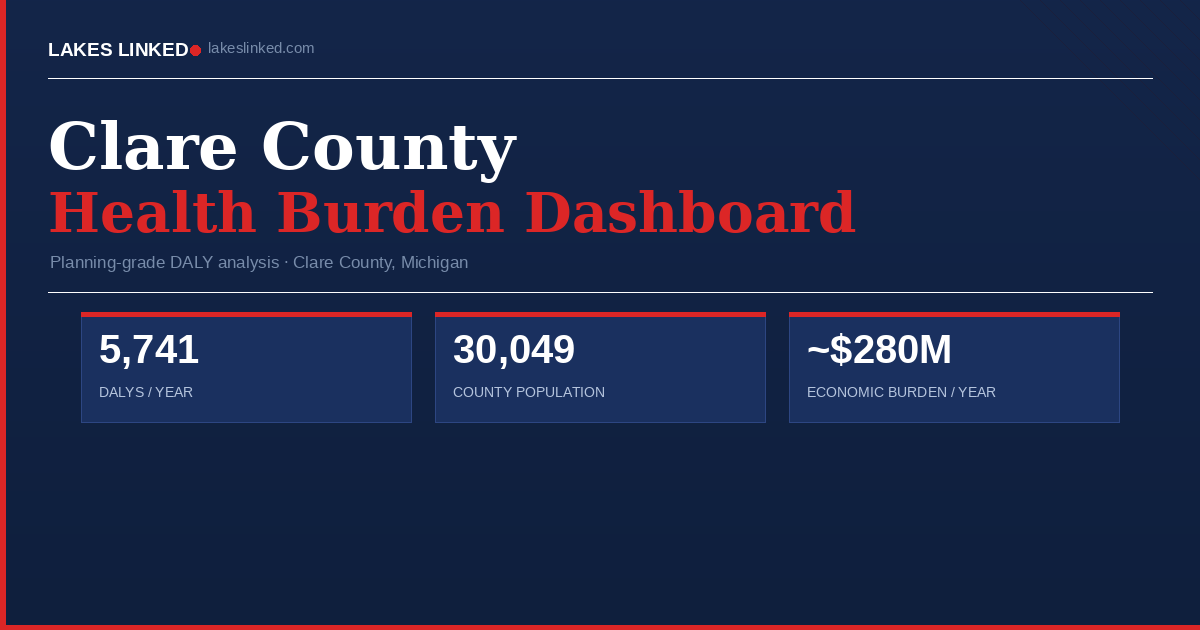
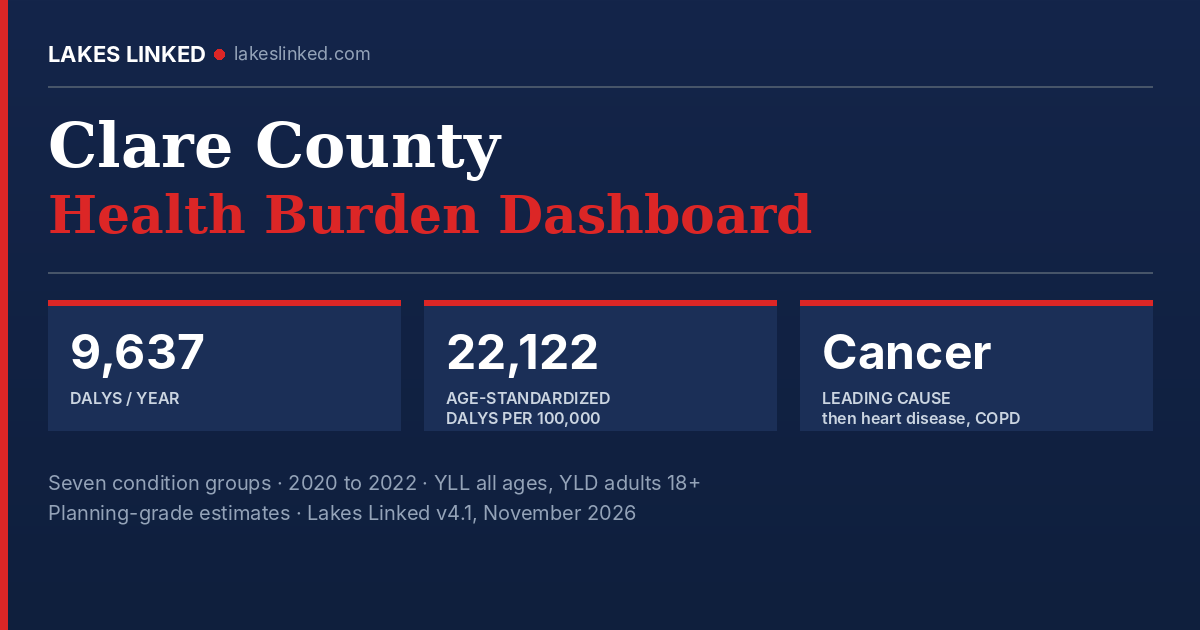
Share text, social previews and OG images updated to v4.1

diff --git a/wayne.html b/wayne.html
@@ -7,7 +7,7 @@
 <title>Wayne County (Detroit) Health Burden Dashboard | Lakes Linked</title>
 <meta content="Wayne County, Michigan (Detroit) health burden analysis: 421,263 DALYs/year. Cardiovascular disease #1, cancer #2, substance use #3. Age-standardized method. Planning-grade DALY estimates. Dr. Sergey Soshnikov, MD PhD." name="description"/>
 <meta content="Wayne County (Detroit) Health Burden Dashboard | Lakes Linked" property="og:title"/>
-<meta content="421,263 DALYs/yr · CVD #1, substance use #3. Large urban county. Age-standardized YLL analysis (crude DALY rate)." property="og:description"/>
+<meta content="421,263 DALYs/yr · CVD #1, cancer #2, substance use #3. Age-standardized 20,991 per 100,000, similar to rural Clare. Seven condition groups, Lakes Linked v4.1." property="og:description"/>
 <meta content="https://lakeslinked.com/wayne.html" property="og:url"/>
 <meta content="website" property="og:type"/>
 <script src="https://cdnjs.cloudflare.com/ajax/libs/Chart.js/4.4.1/chart.umd.min.js"></script>
@@ -125,7 +125,7 @@ a.ccb-county:hover{border-bottom-color:var(--purple);}
 .rec-b p{font-size:12px;color:var(--muted);line-height:1.5;}
 .rec-ev{font-size:11px;font-weight:700;color:var(--teal);background:#f0fdfa;border-radius:6px;padding:3px 8px;white-space:nowrap;align-self:start;}
 </style>
-<link href="ll-features.css" rel="stylesheet"/><meta content="index, follow" name="robots"/><meta content="Sergey Soshnikov, MD PhD — Lakes Linked" name="author"/><link href="https://lakeslinked.com/wayne.html" rel="canonical"/><meta content="https://lakeslinked.com/og-ai-public-health.png" property="og:image"/><meta content="1200" property="og:image:width"/><meta content="630" property="og:image:height"/><meta content="summary_large_image" name="twitter:card"/><meta content="https://lakeslinked.com/og-ai-public-health.png" name="twitter:image"/></head>
+<link href="ll-features.css" rel="stylesheet"/><meta content="index, follow" name="robots"/><meta content="Sergey Soshnikov, MD PhD — Lakes Linked" name="author"/><link href="https://lakeslinked.com/wayne.html" rel="canonical"/><meta content="https://lakeslinked.com/og-wayne.png" property="og:image"/><meta content="1200" property="og:image:width"/><meta content="630" property="og:image:height"/><meta content="summary_large_image" name="twitter:card"/><meta content="https://lakeslinked.com/og-wayne.png" name="twitter:image"/></head>
 <body>
 <!-- Navigation -->
 <nav class="sitenav">
@@ -180,9 +180,9 @@ a.ccb-county:hover{border-bottom-color:var(--purple);}
 </div>
 <div class="hdiv"></div>
 <div class="hstat">
-<div class="num">14,177</div>
-<div class="lbl">Age-std YLL / 100k</div>
-<div class="cmp bad">Highest analyzed county — 1.7× Ann Arbor</div>
+<div class="num">20,991</div>
+<div class="lbl">Age-std DALYs / 100k</div>
+<div class="cmp bad">Similar to rural Clare (22,122) · 1.4× Ann Arbor</div>
 </div>
 <div class="hdiv"></div>
 <div class="hstat">
@@ -214,9 +214,9 @@ a.ccb-county:hover{border-bottom-color:var(--purple);}
 <!-- KPI STRIP -->
 <div class="kpi-strip" id="sec-kpi">
 <div class="kpi" style="--accent:var(--purple)">
-<div class="kpi-num">14,177<span style="font-size:13px;font-weight:600;color:var(--muted)">/100k</span></div>
-<div class="kpi-label">Age-standardized YLL rate — the cross-county comparison metric</div>
-<div class="kpi-delta up">Highest burden — 1.7× Ann Arbor's 8,251/100k</div>
+<div class="kpi-num">20,991<span style="font-size:13px;font-weight:600;color:var(--muted)">/100k</span></div>
+<div class="kpi-label">Age-standardized DALY rate (95% range 20,474–21,608), the cross-county comparison metric</div>
+<div class="kpi-delta up">Statistically similar to rural Clare (22,122); 1.4× Ann Arbor's 14,708</div>
 </div>
 <div class="kpi" style="--accent:var(--red)">
 <div class="kpi-num">5,531</div>
@@ -245,7 +245,7 @@ a.ccb-county:hover{border-bottom-color:var(--purple);}
 </div>
 </div>
 
-<div class="ll-share-block" data-county="Wayne County (Detroit)" data-metric="disease burden" data-unit="DALYs/yr" data-url="https://lakeslinked.com/wayne.html" data-value="421,263" style="margin:20px 0;">
+<div class="ll-share-block" data-share-text="Wayne County (Detroit), Michigan: 421,263 DALYs a year. Age-standardized, 20,991 per 100,000, statistically similar to rural Clare County. Leading causes: heart disease, cancer, substance use. Seven condition groups (cancer, heart disease, stroke, COPD, diabetes, mental health, substance use), 2020 to 2022; YLL all ages, YLD adults 18+. Planning estimates from CDC WONDER, CDC PLACES 2024 and IHME GBD weights. Lakes Linked v4.1." data-county="Wayne County (Detroit)" data-metric="disease burden" data-unit="DALYs/yr" data-url="https://lakeslinked.com/wayne.html" data-value="421,263" style="margin:20px 0;">
 <span class="ll-share-label">Share this dashboard:</span>
 <button class="ll-share-btn ll-share-btn--linkedin" type="button"><span class="ll-share-icon">in</span> LinkedIn</button>
 <button class="ll-share-btn ll-share-btn--x" type="button"><span class="ll-share-icon">𝕏</span> Post</button>
@@ -266,7 +266,7 @@ a.ccb-county:hover{border-bottom-color:var(--purple);}
 <div class="findings" style="margin:0;">
 <div class="finding" style="--accent:var(--red)"><h4>Cardiovascular-led</h4><p>Heart disease is the dominant burden (117,773 DALYs, 5,531 deaths/yr) — a cardiovascular crisis on a scale distinct from cancer-led Ann Arbor.</p></div>
 <div class="finding" style="--accent:var(--amber)"><h4>Enormous substance-use burden</h4><p>1,107 drug + alcohol deaths/yr (70,984 DALYs) — the #3 cause, reflecting Detroit's overdose crisis. Directly observed, not suppressed.</p></div>
-<div class="finding"><h4>Deaths strike younger</h4><p>The age-standardized YLL rate (14,177/100k) is 1.7× Ann Arbor's, driven by deaths occurring further below the survival benchmark.</p></div>
+<div class="finding"><h4>Deaths strike younger</h4><p>The age-standardized YLL rate (14,177/100k) is 1.7× Ann Arbor's 8,251, driven by deaths occurring further below the survival benchmark.</p></div>
 </div>
 </div>
 </div>
@@ -340,7 +340,7 @@ a.ccb-county:hover{border-bottom-color:var(--purple);}
 <h3>Method &amp; comparability notes (read before comparing counties)</h3>
 <ul>
 <li><strong>One method for all six counties (v4.1, November 2026).</strong> All six counties now use age-specific YLL on the GBD 2019 reference life table, observed CDC WONDER 2020–22 deaths by age and CDC WONDER person-year denominators, so age-standardized rates can be compared directly. See <a href="rural_vs_urban.html">Six counties on one basis</a>. Rankings are point estimates; uncertainty intervals for all counties are in preparation.</li>
-<li><strong>"Age-standardized" applies to YLL.</strong> Only the mortality (YLL) rate is genuinely age-standardized (14,177/100k). YLD has no age-specific prevalence in CDC PLACES, so it is reported as a crude rate (7,555/100k). We show them separately rather than blend them under one label.</li>
+<li><strong>Age standardization covers YLL and YLD (v4.1).</strong> YLL is standardized directly by age group (14,177/100k). YLD is standardized with CDC PLACES age-adjusted prevalence for adults (6,814/100k); together they give 20,991 age-standardized DALYs per 100,000. YLD covers adults 18+ only.</li>
 <li><strong>Substance-use prevalence for YLD is indicative, not measured.</strong> CDC PLACES has no SUD measure, so the SUD disability component uses a Michigan-derived rate applied uniformly; it likely understates a high-burden county like Wayne. SUD mortality (the YLL part) is directly observed.</li>
 <li><strong>Substance-use and suicide mortality overlap slightly.</strong> Drug-poisoning deaths with suicidal intent (X60–X64) appear in both categories, so the sum of those two causes' YLL is a modest upper bound.</li>
 <li><strong>Detroit ⊆ Wayne County.</strong> Mortality is only available at county resolution; this page describes Wayne County, which contains Detroit (about a third of the county's population).</li>

diff --git a/washtenaw.html b/washtenaw.html
@@ -7,7 +7,7 @@
 <title>Washtenaw County (Ann Arbor) Health Burden Dashboard | Lakes Linked</title>
 <meta content="Washtenaw County, Michigan (Ann Arbor) health burden analysis: 58,628 DALYs/year. Cancer #1, substance use #2, CVD #3. Age-standardized method. Planning-grade DALY estimates. Dr. Sergey Soshnikov, MD PhD." name="description"/>
 <meta content="Washtenaw County (Ann Arbor) Health Burden Dashboard | Lakes Linked" property="og:title"/>
-<meta content="58,628 DALYs/yr · Cancer #1, substance use #3. Urban college county. Age-standardized YLL analysis (crude DALY rate)." property="og:description"/>
+<meta content="58,628 DALYs/yr · Cancer #1, substance use #2, CVD #3. Age-standardized 14,708 per 100,000, lowest of six counties. Seven condition groups, Lakes Linked v4.1." property="og:description"/>
 <meta content="https://lakeslinked.com/washtenaw.html" property="og:url"/>
 <meta content="website" property="og:type"/>
 <script src="https://cdnjs.cloudflare.com/ajax/libs/Chart.js/4.4.1/chart.umd.min.js"></script>
@@ -125,7 +125,7 @@ a.ccb-county:hover{border-bottom-color:var(--purple);}
 .rec-b p{font-size:12px;color:var(--muted);line-height:1.5;}
 .rec-ev{font-size:11px;font-weight:700;color:var(--teal);background:#f0fdfa;border-radius:6px;padding:3px 8px;white-space:nowrap;align-self:start;}
 </style>
-<link href="ll-features.css" rel="stylesheet"/><meta content="index, follow" name="robots"/><meta content="Sergey Soshnikov, MD PhD — Lakes Linked" name="author"/><link href="https://lakeslinked.com/washtenaw.html" rel="canonical"/><meta content="https://lakeslinked.com/og-ai-public-health.png" property="og:image"/><meta content="1200" property="og:image:width"/><meta content="630" property="og:image:height"/><meta content="summary_large_image" name="twitter:card"/><meta content="https://lakeslinked.com/og-ai-public-health.png" name="twitter:image"/></head>
+<link href="ll-features.css" rel="stylesheet"/><meta content="index, follow" name="robots"/><meta content="Sergey Soshnikov, MD PhD — Lakes Linked" name="author"/><link href="https://lakeslinked.com/washtenaw.html" rel="canonical"/><meta content="https://lakeslinked.com/og-washtenaw.png" property="og:image"/><meta content="1200" property="og:image:width"/><meta content="630" property="og:image:height"/><meta content="summary_large_image" name="twitter:card"/><meta content="https://lakeslinked.com/og-washtenaw.png" name="twitter:image"/></head>
 <body>
 <!-- Navigation -->
 <nav class="sitenav">
@@ -180,9 +180,9 @@ a.ccb-county:hover{border-bottom-color:var(--purple);}
 </div>
 <div class="hdiv"></div>
 <div class="hstat">
-<div class="num">8,251</div>
-<div class="lbl">Age-std YLL / 100k</div>
-<div class="cmp good">Lowest of the analyzed urban counties</div>
+<div class="num">14,708</div>
+<div class="lbl">Age-std DALYs / 100k</div>
+<div class="cmp good">Lowest of the six analyzed counties</div>
 </div>
 <div class="hdiv"></div>
 <div class="hstat">
@@ -214,9 +214,9 @@ a.ccb-county:hover{border-bottom-color:var(--purple);}
 <!-- KPI STRIP -->
 <div class="kpi-strip" id="sec-kpi">
 <div class="kpi" style="--accent:var(--purple)">
-<div class="kpi-num">8,251<span style="font-size:13px;font-weight:600;color:var(--muted)">/100k</span></div>
-<div class="kpi-label">Age-standardized YLL rate — the cross-county comparison metric</div>
-<div class="kpi-delta good">Ann Arbor is the healthiest analyzed urban county (Wayne 14,177)</div>
+<div class="kpi-num">14,708<span style="font-size:13px;font-weight:600;color:var(--muted)">/100k</span></div>
+<div class="kpi-label">Age-standardized DALY rate (95% range 14,172–15,676), the cross-county comparison metric</div>
+<div class="kpi-delta good">Lowest of six analyzed counties (Wayne 20,991; Clare 22,122)</div>
 </div>
 <div class="kpi" style="--accent:var(--red)">
 <div class="kpi-num">548</div>
@@ -245,7 +245,7 @@ a.ccb-county:hover{border-bottom-color:var(--purple);}
 </div>
 </div>
 
-<div class="ll-share-block" data-county="Washtenaw County (Ann Arbor)" data-metric="disease burden" data-unit="DALYs/yr" data-url="https://lakeslinked.com/washtenaw.html" data-value="58,628" style="margin:20px 0;">
+<div class="ll-share-block" data-share-text="Washtenaw County (Ann Arbor), Michigan: 58,628 DALYs a year. Age-standardized, 14,708 per 100,000, the lowest of six counties analyzed. Leading causes: cancer, substance use, heart disease. Seven condition groups (cancer, heart disease, stroke, COPD, diabetes, mental health, substance use), 2020 to 2022; YLL all ages, YLD adults 18+. Planning estimates from CDC WONDER, CDC PLACES 2024 and IHME GBD weights. Lakes Linked v4.1." data-county="Washtenaw County (Ann Arbor)" data-metric="disease burden" data-unit="DALYs/yr" data-url="https://lakeslinked.com/washtenaw.html" data-value="58,628" style="margin:20px 0;">
 <span class="ll-share-label">Share this dashboard:</span>
 <button class="ll-share-btn ll-share-btn--linkedin" type="button"><span class="ll-share-icon">in</span> LinkedIn</button>
 <button class="ll-share-btn ll-share-btn--x" type="button"><span class="ll-share-icon">𝕏</span> Post</button>
@@ -340,7 +340,7 @@ a.ccb-county:hover{border-bottom-color:var(--purple);}
 <h3>Method &amp; comparability notes (read before comparing counties)</h3>
 <ul>
 <li><strong>One method for all six counties (v4.1, November 2026).</strong> All six counties now use age-specific YLL on the GBD 2019 reference life table, observed CDC WONDER 2020–22 deaths by age and CDC WONDER person-year denominators, so age-standardized rates can be compared directly. See <a href="rural_vs_urban.html">Six counties on one basis</a>. Rankings are point estimates; uncertainty intervals for all counties are in preparation.</li>
-<li><strong>"Age-standardized" applies to YLL.</strong> Only the mortality (YLL) rate is genuinely age-standardized (8,251/100k). YLD has no age-specific prevalence in CDC PLACES, so it is reported as a crude rate (7,059/100k). We show them separately rather than blend them under one label.</li>
+<li><strong>Age standardization covers YLL and YLD (v4.1).</strong> YLL is standardized directly by age group (8,251/100k). YLD is standardized with CDC PLACES age-adjusted prevalence for adults (6,456/100k); together they give 14,708 age-standardized DALYs per 100,000. YLD covers adults 18+ only.</li>
 <li><strong>Substance-use prevalence for YLD is indicative, not measured.</strong> CDC PLACES has no SUD measure, so the SUD disability component uses a Michigan-derived rate applied uniformly; it does not reflect local variation. SUD mortality (the YLL part) is directly observed.</li>
 <li><strong>Substance-use and suicide mortality overlap slightly.</strong> Drug-poisoning deaths with suicidal intent (X60–X64) appear in both categories, so the sum of those two causes' YLL is a modest upper bound.</li>
 <li><strong>Ann Arbor ⊆ Washtenaw County.</strong> Mortality is only available at county resolution; this page describes Washtenaw County, which contains Ann Arbor.</li>

diff --git a/rural_vs_urban.html b/rural_vs_urban.html
@@ -43,7 +43,7 @@ tbody tr:nth-child(even){background:#f8fafc;}
 footer{border-top:1px solid var(--border);padding:18px 28px;font-size:11.5px;color:var(--muted);}
 a{color:var(--blue);}
 </style>
-<link href="ll-features.css" rel="stylesheet"/><meta content="index, follow" name="robots"/><link href="https://lakeslinked.com/rural_vs_urban.html" rel="canonical"/><meta content="Rural vs urban Michigan disease burden: age-standardized comparison of Washtenaw (Ann Arbor) and Wayne (Detroit) with rural counties. Planning-grade DALY analysis." property="og:description"/><meta content="https://lakeslinked.com/og-ai-public-health.png" property="og:image"/><meta content="1200" property="og:image:width"/><meta content="630" property="og:image:height"/><meta content="summary_large_image" name="twitter:card"/><meta content="https://lakeslinked.com/og-ai-public-health.png" name="twitter:image"/></head>
+<link href="ll-features.css" rel="stylesheet"/><meta content="index, follow" name="robots"/><link href="https://lakeslinked.com/rural_vs_urban.html" rel="canonical"/><meta content="Six Michigan counties on one method: age-standardized DALYs from 14,708 per 100,000 in Washtenaw (Ann Arbor) to 22,122 in rural Clare, which is statistically similar to Detroit. Seven condition groups, 2020 to 2022, Lakes Linked v4.1." property="og:description"/><meta content="https://lakeslinked.com/og-rural-urban.png" property="og:image"/><meta content="1200" property="og:image:width"/><meta content="630" property="og:image:height"/><meta content="summary_large_image" name="twitter:card"/><meta content="https://lakeslinked.com/og-rural-urban.png" name="twitter:image"/></head>
 <body>
 <nav class="sitenav">
 <a class="brand" href="index.html"><img alt="Lakes Linked" src="logos/lakeslinked_dark_bg_trimmed.png" style="height:34px;width:auto;"/></a>
@@ -73,7 +73,7 @@ a{color:var(--blue);}
 <div class="callout">
 <strong>How to read this page.</strong> All six counties are on <strong>one method</strong> (v4.1, 11 November 2026). YLL: age-specific, summed on the GBD 2019 reference life table, from observed CDC WONDER 2020–22 deaths by ten-year age group. YLD: one rule for every county, from the CDC PLACES 2024 release. Counties are classified by the OMB 2023 delineation: Clare, Isabella and Gratiot are nonmetropolitan; Midland (its own metropolitan statistical area), Washtenaw and Wayne are metropolitan. The column to read is <strong>age-standardized DALYs per 100,000</strong> (US 2000 standard population): it removes the age-structure difference between a retirement-age nonmetro county, a college town and a large city. Crude rates are shown alongside because they are what a county actually experiences. Mortality for substance use and mental health is suppressed in small counties; those cells are reconstructed as stated on each county's methods page.</div>
 <div class="ll-scope" style="background:#eff6ff;border:1px solid #bfdbfe;border-left:4px solid #1a56db;border-radius:8px;padding:10px 14px;margin:0 0 18px;font-size:12.5px;line-height:1.55;color:#1e3a5f;"><strong>Scope: seven condition groups.</strong> These DALYs cover cancer; cardiovascular disease (diseases of the heart); stroke; COPD and chronic lower respiratory disease; diabetes; mental health conditions; substance use disorders. <strong>YLL: all ages. YLD: adults 18+ only</strong> (CDC PLACES surveys adults), so disability in children is not counted. Other causes, including injuries, COVID-19, Alzheimer's disease, kidney and liver disease, are not yet included, so totals show part of the full burden. <strong>Expansion to all causes is in preparation.</strong></div>
-<div class="ll-share-block" data-county="Rural vs Urban" data-metric="disease burden" data-unit="DALYs/yr" data-url="https://lakeslinked.com/rural_vs_urban.html" style="margin:0 0 22px;"><span class="ll-share-label">Share this comparison:</span><a class="ll-share-btn ll-share-btn--linkedin" href="https://www.linkedin.com/sharing/share-offshore/?url=https%3A%2F%2Flakeslinked.com%2Frural_vs_urban.html" target="_blank" rel="noopener" style="text-decoration:none"><span class="ll-share-icon">in</span> LinkedIn</a><a class="ll-share-btn ll-share-btn--facebook" href="https://www.facebook.com/sharer/sharer.php?u=https%3A%2F%2Flakeslinked.com%2Frural_vs_urban.html" target="_blank" rel="noopener" style="text-decoration:none;background:#1877f2;color:#fff;border-color:#1877f2"><span class="ll-share-icon">f</span> Facebook</a></div>
+<div class="ll-share-block" data-share-text="Six Michigan counties on one method: age-standardized DALYs range from 14,708 per 100,000 in Washtenaw (Ann Arbor) to 22,122 in rural Clare, and Clare is statistically similar to Detroit&#x27;s Wayne County. Seven condition groups (cancer, heart disease, stroke, COPD, diabetes, mental health, substance use), 2020 to 2022; YLL all ages, YLD adults 18+. Planning estimates from CDC WONDER, CDC PLACES 2024 and IHME GBD weights. Lakes Linked v4.1." data-county="Rural vs Urban" data-metric="disease burden" data-unit="DALYs/yr" data-url="https://lakeslinked.com/rural_vs_urban.html" style="margin:0 0 22px;"><span class="ll-share-label">Share this comparison:</span><a class="ll-share-btn ll-share-btn--linkedin" href="https://www.linkedin.com/sharing/share-offshore/?url=https%3A%2F%2Flakeslinked.com%2Frural_vs_urban.html" target="_blank" rel="noopener" style="text-decoration:none"><span class="ll-share-icon">in</span> LinkedIn</a><a class="ll-share-btn ll-share-btn--facebook" href="https://www.facebook.com/sharer/sharer.php?u=https%3A%2F%2Flakeslinked.com%2Frural_vs_urban.html" target="_blank" rel="noopener" style="text-decoration:none;background:#1877f2;color:#fff;border-color:#1877f2"><span class="ll-share-icon">f</span> Facebook</a></div>
 
 <!-- Urban: the fair comparison -->
 <div class="card">

diff --git a/index.html b/index.html
@@ -7,14 +7,14 @@
 <title>Michigan Rural Health Burden Analysis | Lakes Linked</title>
 <meta content="Educational disease burden analysis for rural Michigan counties — identifying top health conditions, quantifying economic impact, and supporting grant applications and health planning. Dr. Sergey Soshnikov, MD PhD." name="description"/>
 <meta content="Michigan Rural Health Burden Analysis | Lakes Linked" property="og:title"/>
-<meta content="6 Michigan counties analyzed — rural (crude) plus urban Washtenaw &amp; Wayne (age-standardized) · 1 in pipeline. Planning-grade burden analysis for county health departments, grant applications, and rural health policy." property="og:description"/>
+<meta content="Six Michigan counties on one method (v4.1): age-standardized DALYs for seven condition groups, 2020 to 2022, with 95% ranges. One more county in pipeline. Planning-grade burden analysis for county health departments, grant applications and rural health policy." property="og:description"/>
 <meta content="https://lakeslinked.com/" property="og:url"/>
 <meta content="website" property="og:type"/>
 <meta content="https://lakeslinked.com/og-image.png" property="og:image"/>
 <meta content="1200" property="og:image:width"/>
 <meta content="630" property="og:image:height"/>
 <meta content="summary_large_image" name="twitter:card"/>
-<meta content="https://lakeslinked.com/logo.png" name="twitter:image"/>
+<meta content="https://lakeslinked.com/og-image.png" name="twitter:image"/>
 <meta name="keywords" content="Michigan rural health, county health analysis, Isabella County health, Clare County health, Midland County health, Washtenaw County health, Ann Arbor health data, Wayne County health, Detroit health data, age-standardized DALY, public health analytics Michigan, county health planning, grant writing public health, rural health disparities, health department data, population health Michigan, rural Michigan communities, health data planning, community health assessment"/>
 <script type="application/ld+json">
 {
@@ -1121,7 +1121,7 @@ html{scroll-behavior:smooth}
 </div>
 </div>
 <div class="cc-chips">
-<span class="chip">8,251 age-std YLL/100k</span>
+<span class="chip">14,708 age-std DALYs/100k</span>
 <span class="chip">$3.63B burden</span>
 <span class="chip">Urban · age-std</span>
 <span class="chip chip-fips">FIPS 26161</span>
@@ -1170,7 +1170,7 @@ html{scroll-behavior:smooth}
 </div>
 </div>
 <div class="cc-chips">
-<span class="chip">14,177 age-std YLL/100k</span>
+<span class="chip">20,991 age-std DALYs/100k</span>
 <span class="chip">$26.1B burden</span>
 <span class="chip">Urban · age-std</span>
 <span class="chip chip-fips">FIPS 26163</span>

diff --git a/ll-features.js b/ll-features.js
@@ -19,17 +19,16 @@
    *
    * EDIT: Customize the template strings for your counties.
    */
-  function buildShareText(countyName, metric, value, unit, pageUrl) {
+  function buildShareText(countyName, metric, value, unit, pageUrl, custom) {
     // UTM-tagged URL for tracking
     var utmUrl = pageUrl + '?utm_source=linkedin&utm_medium=social&utm_campaign=county_insight';
-
-    return (
-      'In ' + countyName + ', ' + metric + ' is estimated to contribute approximately ' +
-      value + ' ' + unit + ' of disease burden annually — ' +
-      'a planning-grade estimate based on CDC PLACES, CDC WONDER, and IHME GBD 2021 disability weights. ' +
-      'Lakes Linked translates public health data into county burden dashboards for CHNA, grant writing, and rural health planning. ' +
-      'Explore the dashboard: ' + utmUrl
-    );
+    // Preferred: page-specific text kept in data-share-text (updated with every site version)
+    if (custom) return custom + ' Explore the dashboard: ' + utmUrl;
+    // Fallback: generic text that stays correct without a number
+    var lead = value ? (countyName + ': ' + value + ' ' + unit + ', seven condition groups, 2020 to 2022. ')
+                     : (countyName + ': county disease burden for seven condition groups, 2020 to 2022. ');
+    return lead + 'Planning-grade estimates from CDC WONDER, CDC PLACES and IHME GBD disability weights; YLL all ages, YLD adults 18+. ' +
+      'Lakes Linked builds county burden dashboards for CHNA, grant writing and rural health planning. Explore the dashboard: ' + utmUrl;
   }
 
   /**
@@ -76,7 +75,7 @@
         var unit   = ctx.dataset.unit   || 'DALYs/yr';
         var pageUrl= ctx.dataset.url    || window.location.href.split('?')[0];
 
-        var text  = buildShareText(county, metric, value, unit, pageUrl);
+        var text  = buildShareText(county, metric, value, unit, pageUrl, ctx.dataset.shareText || '');
         var utmUrl= pageUrl + '?utm_source=social&utm_medium=share&utm_campaign=county_insight';
 
         /* ── LinkedIn ── */
@@ -90,7 +89,7 @@
         /* ── X / Twitter ── */
         else if (btn.classList.contains('ll-share-btn--x')) {
           var tweetUrl = 'https://x.com/intent/tweet?text=' +
-                         encodeURIComponent(text.slice(0, 280));
+                         encodeURIComponent(text.length <= 280 ? text : (text.split('. ')[0] + '. ' + pageUrl));
           window.open(tweetUrl, '_blank', 'noopener,width=600,height=400');
         }
 

diff --git a/clare.html b/clare.html
@@ -7,7 +7,7 @@
 <title>Clare County Health Burden Dashboard | Lakes Linked</title>
 <meta content="Clare County, Michigan health burden analysis: 9,637 DALYs/year. Cancer and CVD lead; COPD and opioid burden distinctive; aging rural population. Planning-grade DALY estimates. Dr. Sergey Soshnikov, MD PhD." name="description"/>
 <meta content="Clare County Health Burden Dashboard | Lakes Linked" property="og:title"/>
-<meta content="9,637 DALYs/yr · Cancer #1, CVD #2, COPD #3. MUA-designated rural county. DALY burden analysis for SAMHSA, HRSA, and MDHHS grant applications." property="og:description"/>
+<meta content="9,637 DALYs/yr · Cancer #1, CVD #2, COPD #3. Age-standardized 22,122 per 100,000, similar to Detroit. MUA-designated rural county. DALY burden analysis for SAMHSA, HRSA, and MDHHS grant applications." property="og:description"/>
 <meta content="https://lakeslinked.com/clare.html" property="og:url"/>
 <meta content="website" property="og:type"/>
 <script src="https://cdnjs.cloudflare.com/ajax/libs/Chart.js/4.4.1/chart.umd.min.js"></script>
@@ -322,7 +322,7 @@ a.ccb-county:hover{border-bottom-color:var(--blue);}
 <div class="kpi-label">Medically Underserved Area + HPSA designation</div>
 <div class="kpi-delta up">Primary care &amp; mental health shortage</div>
 </div>
-</div><div class="ll-share-block" data-county="Clare County" data-metric="disease burden" data-unit="DALYs/yr" data-url="https://lakeslinked.com/clare.html" data-value="9,637" style="margin:20px 0;">
+</div><div class="ll-share-block" data-share-text="Clare County, Michigan: 9,637 DALYs a year. Age-standardized, 22,122 per 100,000, the highest of six counties analyzed and statistically similar to Detroit&#x27;s Wayne County. Leading causes: cancer, heart disease, COPD. Seven condition groups (cancer, heart disease, stroke, COPD, diabetes, mental health, substance use), 2020 to 2022; YLL all ages, YLD adults 18+. Planning estimates from CDC WONDER, CDC PLACES 2024 and IHME GBD weights. Lakes Linked v4.1." data-county="Clare County" data-metric="disease burden" data-unit="DALYs/yr" data-url="https://lakeslinked.com/clare.html" data-value="9,637" style="margin:20px 0;">
 <span class="ll-share-label">Share this dashboard:</span>
 <button class="ll-share-btn ll-share-btn--linkedin" type="button"><span class="ll-share-icon">in</span> LinkedIn</button>
 <button class="ll-share-btn ll-share-btn--x" type="button"><span class="ll-share-icon">𝕏</span> Post</button>

diff --git a/isabella.html b/isabella.html
@@ -7,7 +7,7 @@
 <title>Isabella County Health Burden Dashboard | Lakes Linked</title>
 <meta content="Isabella County, Michigan health burden analysis: 13,493 DALYs/year. Planning-grade DALY estimates using CDC PLACES 2024, CDC WONDER 2020–22, and IHME GBD 2021. Dr. Sergey Soshnikov, MD PhD." name="description"/>
 <meta content="Isabella County Health Burden Dashboard | Lakes Linked" property="og:title"/>
-<meta content="13,493 DALYs/yr · Cancer #1, CVD #2, SUD #3. County-level disease burden analysis for grant applications and CHNA planning." property="og:description"/>
+<meta content="13,493 DALYs/yr (published; v4.1 update 13,089) · Cancer #1, CVD #2, SUD #3. County-level disease burden analysis for grant applications and CHNA planning." property="og:description"/>
 <meta content="https://lakeslinked.com/isabella.html" property="og:url"/>
 <meta content="website" property="og:type"/>
 <script src="https://cdnjs.cloudflare.com/ajax/libs/Chart.js/4.4.1/chart.umd.min.js"></script>
@@ -317,7 +317,7 @@ a.ccb-county:hover{border-bottom-color:var(--blue);}
 <div class="kpi-label">HRSA psychiatrist shortage ratio (HPSA) ‡</div>
 <div class="kpi-delta up">18.9× worse than MI avg (9,371:1)</div>
 </div>
-</div><div class="ll-share-block" data-county="Isabella County" data-metric="disease burden" data-unit="DALYs/yr" data-url="https://lakeslinked.com/isabella.html" data-value="13,493" style="margin:20px 0;">
+</div><div class="ll-share-block" data-share-text="Isabella County, Michigan: 13,493 DALYs a year (published estimate, HREI 2026); the updated v4.1 method gives 13,089, within the published uncertainty range. Age-standardized, 20,339 per 100,000. Leading causes: cancer, heart disease, substance use. Seven condition groups (cancer, heart disease, stroke, COPD, diabetes, mental health, substance use), 2020 to 2022; YLL all ages, YLD adults 18+. Planning estimates from CDC WONDER, CDC PLACES 2024 and IHME GBD weights. Lakes Linked v4.1." data-county="Isabella County" data-metric="disease burden" data-unit="DALYs/yr" data-url="https://lakeslinked.com/isabella.html" data-value="13,493" style="margin:20px 0;">
 <span class="ll-share-label">Share this dashboard:</span>
 <button class="ll-share-btn ll-share-btn--linkedin" type="button"><span class="ll-share-icon">in</span> LinkedIn</button>
 <button class="ll-share-btn ll-share-btn--x" type="button"><span class="ll-share-icon">𝕏</span> Post</button>

diff --git a/gratiot.html b/gratiot.html
@@ -7,7 +7,7 @@
 <title>Gratiot County Health Burden Dashboard | Lakes Linked</title>
 <meta content="Gratiot County, Michigan health burden analysis: 9,782 DALYs/year. Cancer #1, CVD #2, SUD #3. Agricultural rural county. Planning-grade DALY estimates. Dr. Sergey Soshnikov, MD PhD." name="description"/>
 <meta content="Gratiot County Health Burden Dashboard | Lakes Linked" property="og:title"/>
-<meta content="9,782 DALYs/yr · Cancer #1, CVD #2. Agricultural rural county. Planning-grade DALY analysis." property="og:description"/>
+<meta content="9,782 DALYs/yr · Cancer #1, CVD #2, SUD #3. Age-standardized 19,625 per 100,000. Agricultural rural county, Lakes Linked v4.1." property="og:description"/>
 <meta content="https://lakeslinked.com/gratiot.html" property="og:url"/>
 <meta content="website" property="og:type"/>
 <script src="https://cdnjs.cloudflare.com/ajax/libs/Chart.js/4.4.1/chart.umd.min.js"></script>
@@ -310,7 +310,7 @@ footer{border-top:1px solid var(--border);padding:18px 28px;font-size:11.5px;col
 <div class="kpi-label">Median household income</div>
 <div class="kpi-delta neu">≈ 88% of MI $72,875 · Per capita $30,221 (low)</div>
 </div>
-</div><div class="ll-share-block" data-county="Gratiot County" data-metric="disease burden" data-unit="DALYs/yr" data-url="https://lakeslinked.com/gratiot.html" data-value="9,782" style="margin:20px 0;">
+</div><div class="ll-share-block" data-share-text="Gratiot County, Michigan: 9,782 DALYs a year. Age-standardized, 19,625 per 100,000, above both smaller metro counties analyzed. Leading causes: cancer, heart disease, substance use. Seven condition groups (cancer, heart disease, stroke, COPD, diabetes, mental health, substance use), 2020 to 2022; YLL all ages, YLD adults 18+. Planning estimates from CDC WONDER, CDC PLACES 2024 and IHME GBD weights. Lakes Linked v4.1." data-county="Gratiot County" data-metric="disease burden" data-unit="DALYs/yr" data-url="https://lakeslinked.com/gratiot.html" data-value="9,782" style="margin:20px 0;">
 <span class="ll-share-label">Share this dashboard:</span>
 <button class="ll-share-btn ll-share-btn--linkedin" type="button"><span class="ll-share-icon">in</span> LinkedIn</button>
 <button class="ll-share-btn ll-share-btn--x" type="button"><span class="ll-share-icon">𝕏</span> Post</button>

diff --git a/midland.html b/midland.html
@@ -7,7 +7,7 @@
 <title>Midland County Health Burden Dashboard | Lakes Linked</title>
 <meta content="Midland County, Michigan health burden analysis: 17,217 DALYs/year. Cancer #1, CVD #2, SUD #3. Industrial economy county. Planning-grade DALY estimates. Dr. Sergey Soshnikov, MD PhD." name="description"/>
 <meta content="Midland County Health Burden Dashboard | Lakes Linked" property="og:title"/>
-<meta content="17,217 DALYs/yr · Cancer #1, CVD #2. Industrial economy county. Planning-grade DALY analysis." property="og:description"/>
+<meta content="17,217 DALYs/yr · Cancer #1, CVD #2, SUD #3. Age-standardized 16,405 per 100,000. Industrial economy county, Lakes Linked v4.1." property="og:description"/>
 <meta content="https://lakeslinked.com/midland.html" property="og:url"/>
 <meta content="website" property="og:type"/>
 <script src="https://cdnjs.cloudflare.com/ajax/libs/Chart.js/4.4.1/chart.umd.min.js"></script>
@@ -314,7 +314,7 @@ a.ccb-county:hover{border-bottom-color:var(--blue);}
 <div class="kpi-label">Median household income</div>
 <div class="kpi-delta good">▲ vs MI ~$63K · Dow Chemical industrial base</div>
 </div>
-</div><div class="ll-share-block" data-county="Midland County" data-metric="disease burden" data-unit="DALYs/yr" data-url="https://lakeslinked.com/midland.html" data-value="17,217" style="margin:20px 0;">
+</div><div class="ll-share-block" data-share-text="Midland County, Michigan: 17,217 DALYs a year. Age-standardized, 16,405 per 100,000, the second lowest of six counties analyzed. Leading causes: cancer, heart disease, substance use. Seven condition groups (cancer, heart disease, stroke, COPD, diabetes, mental health, substance use), 2020 to 2022; YLL all ages, YLD adults 18+. Planning estimates from CDC WONDER, CDC PLACES 2024 and IHME GBD weights. Lakes Linked v4.1." data-county="Midland County" data-metric="disease burden" data-unit="DALYs/yr" data-url="https://lakeslinked.com/midland.html" data-value="17,217" style="margin:20px 0;">
 <span class="ll-share-label">Share this dashboard:</span>
 <button class="ll-share-btn ll-share-btn--linkedin" type="button"><span class="ll-share-icon">in</span> LinkedIn</button>
 <button class="ll-share-btn ll-share-btn--x" type="button"><span class="ll-share-icon">𝕏</span> Post</button>

diff --git a/methods_supplement.html b/methods_supplement.html
@@ -6,8 +6,8 @@
 <title>Methods Supplement - DALY Framework | Assistant Professor, Public Health</title>
 <link rel="canonical" href="https://lakeslinked.com/methods_supplement.html">
 <meta name="description" content="DALY methodology framework for the Michigan rural health burden analysis. Python workflow, data sources, equations, uncertainty model, and code/data access information.">
-<meta property="og:title" content="DALY Methodology Framework | Assistant Professor, Public Health">
-<meta property="og:description" content="Shared DALY framework and Python pipeline documentation for county-level disease burden analysis. CDC PLACES · CDC WONDER · IHME GBD 2021 · Monte Carlo n=10,000.">
+<meta property="og:title" content="DALY Methodology Framework | Lakes Linked">
+<meta property="og:description" content="Shared DALY framework and Python pipeline documentation for county-level disease burden analysis. Six counties on one method (v4.1): seven condition groups, age-standardized DALYs, 95% ranges. CDC PLACES · CDC WONDER · IHME GBD 2021.">
 <meta property="og:url" content="https://lakeslinked.com/methods_supplement.html">
 <meta property="og:type" content="website">
 <style>

diff --git a/washtenaw_methods.html b/washtenaw_methods.html
@@ -4,7 +4,7 @@
 <meta charset="utf-8"/>
 <meta content="width=device-width, initial-scale=1.0" name="viewport"/>
 <title>Washtenaw County (Ann Arbor) — Methods &amp; Data Quality | Lakes Linked</title>
-<meta content="Full methodology for the Washtenaw County (Ann Arbor) age-standardized YLL analysis (YLD reported crude): data sources, YLL/YLD formulas, US-2000 standardization, suppression handling, limitations. Dr. Sergey Soshnikov, MD PhD." name="description"/>
+<meta content="Full methodology for the Washtenaw County (Ann Arbor) age-standardized DALY analysis (v4.1: one YLD rule for six counties): data sources, YLL/YLD formulas, US-2000 standardization, suppression handling, limitations. Dr. Sergey Soshnikov, MD PhD." name="description"/>
 <meta content="https://lakeslinked.com/washtenaw_methods.html" property="og:url"/>
 <style>
 :root{--navy:#0f1f3d;--blue:#1a56db;--teal:#0d9488;--red:#dc2626;--amber:#d97706;--purple:#7c3aed;--green:#059669;--slate:#64748b;--bg:#f8fafc;--surface:#fff;--border:#e2e8f0;--muted:#64748b;--radius:10px;--shadow:0 1px 3px rgba(0,0,0,.08),0 4px 16px rgba(0,0,0,.04);}

diff --git a/wayne_methods.html b/wayne_methods.html
@@ -4,7 +4,7 @@
 <meta charset="utf-8"/>
 <meta content="width=device-width, initial-scale=1.0" name="viewport"/>
 <title>Wayne County (Detroit) — Methods &amp; Data Quality | Lakes Linked</title>
-<meta content="Full methodology for the Wayne County (Detroit) age-standardized YLL analysis (YLD reported crude): data sources, YLL/YLD formulas, US-2000 standardization, suppression handling, limitations. Dr. Sergey Soshnikov, MD PhD." name="description"/>
+<meta content="Full methodology for the Wayne County (Detroit) age-standardized DALY analysis (v4.1: one YLD rule for six counties): data sources, YLL/YLD formulas, US-2000 standardization, suppression handling, limitations. Dr. Sergey Soshnikov, MD PhD." name="description"/>
 <meta content="https://lakeslinked.com/wayne_methods.html" property="og:url"/>
 <style>
 :root{--navy:#0f1f3d;--blue:#1a56db;--teal:#0d9488;--red:#dc2626;--amber:#d97706;--purple:#7c3aed;--green:#059669;--slate:#64748b;--bg:#f8fafc;--surface:#fff;--border:#e2e8f0;--muted:#64748b;--radius:10px;--shadow:0 1px 3px rgba(0,0,0,.08),0 4px 16px rgba(0,0,0,.04);}
